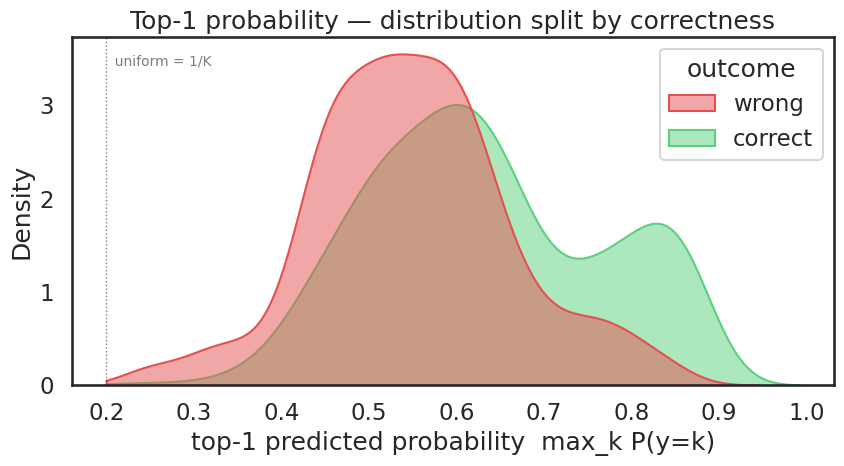
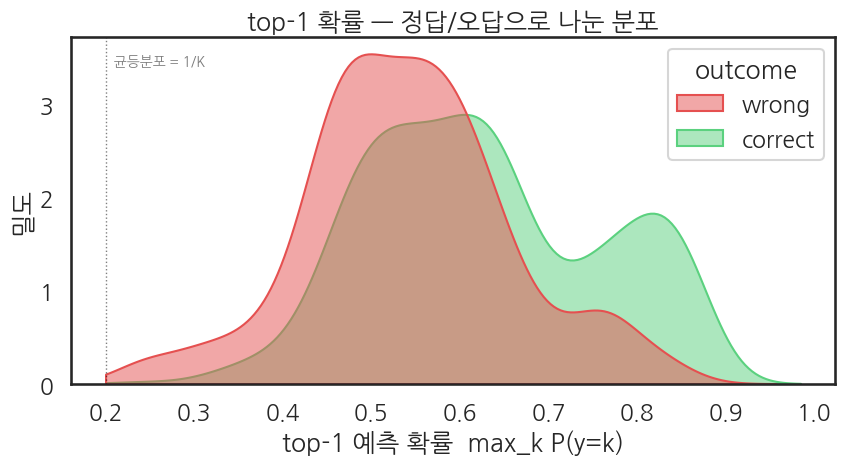
Ch 12 WikiDocs 변환 — executed 한글 plot 재생성
Claude-Session: https://claude.ai/code/session_01WacYaM89hZLnSLh4o6sjrA

diff --git a/pages/12-bert_multiclass-practice.md b/pages/12-bert_multiclass-practice.md
@@ -28,6 +28,13 @@ from sklearn.metrics import (
 from sklearn.feature_extraction.text import TfidfVectorizer
 from sklearn.linear_model import LogisticRegression
 
+# matplotlib 한글 폰트 (Colab — NanumGothic). plot 의 한국어가 □ 로 깨지지 않게.
+import matplotlib.pyplot as plt, matplotlib.font_manager as fm, subprocess, os
+_fp = "/usr/share/fonts/truetype/nanum/NanumGothic.ttf"
+if not os.path.exists(_fp):
+    subprocess.run("apt-get -qq -y install fonts-nanum", shell=True)
+fm.fontManager.addfont(_fp)
+plt.rcParams["font.family"] = "NanumGothic"
 plt.rcParams["axes.unicode_minus"] = False
 
 print(f"PyTorch:        {torch.__version__}")
@@ -53,7 +60,7 @@ GPU:             Tesla T4
 **▶ 실행 결과**
 
 ```text
-Wed Jun 17 21:37:09 2026       
+Mon Jun 22 03:47:31 2026       
 +-----------------------------------------------------------------------------------------+
 | NVIDIA-SMI 580.82.07              Driver Version: 580.82.07      CUDA Version: 13.0     |
 +-----------------------------------------+------------------------+----------------------+
@@ -62,7 +69,7 @@ Wed Jun 17 21:37:09 2026
 |                                         |                        |               MIG M. |
 |=========================================+========================+======================|
 |   0  Tesla T4                       Off |   00000000:00:04.0 Off |                    0 |
-| N/A   52C    P8             11W /   70W |       3MiB /  15360MiB |      0%      Default |
+| N/A   54C    P8             13W /   70W |       3MiB /  15360MiB |      0%      Default |
 |                                         |                        |                  N/A |
 +-----------------------------------------+------------------------+----------------------+
 
@@ -74,8 +81,6 @@ Wed Jun 17 21:37:09 2026
 |  No running processes found                                                             |
 +-----------------------------------------------------------------------------------------+
 ```
-
-DistilBERT 토크나이저를 불러오고 Yelp 리뷰 데이터셋에서 학습 5,000개·평가 1,000개를 무작위로 뽑습니다. 별점 5개(label 0-4)가 고르게 분포해 있는지 클래스별 개수를 출력해 확인하고, 첫 샘플의 라벨과 본문 일부를 미리 봅니다.
 
 ```python
 tokenizer = AutoTokenizer.from_pretrained("distilbert-base-uncased")
@@ -112,10 +117,8 @@ Class distribution (train):
 
 First sample:
   label: 4  (star 5)
-  text:  I stalk this truck.  I've been to industrial parks where I pretend to be a tech worker standing in line, strip mall parking lots, a …(72 more chars omitted)
+  text:  I stalk this truck.  I've been to industrial parks where I pretend to be a tech worker standing in line, strip mall parking lots, a …(뒤 72자 생략)
 ```
-
-리뷰 본문을 토큰화하면서 라벨을 함께 정리합니다. multi-class 분류에서는 라벨이 0-4 정수 스칼라 그대로여야 하므로 `int`로 변환해 `labels` 키에 담고, 토큰화가 끝나면 원본 `text`·`label` 컬럼을 제거해 `Trainer`가 바로 쓸 수 있는 형태로 만듭니다.
 
 ```python
 def tokenize_fn(batch):
@@ -140,8 +143,6 @@ Dataset({
 
 First sample label: 4  (int scalar in 0-4)
 ```
-
-5클래스 분류 헤드를 붙인 DistilBERT를 불러옵니다. `num_labels=5`와 `problem_type="single_label_classification"`로 출력 차원과 loss(CrossEntropyLoss)를 지정하고, `id2label`·`label2id`로 정수 라벨과 별점 표기를 연결합니다. 출력에서 분류기 헤드(`classifier`)가 새로 초기화(MISSING)되었다는 점과 출력 차원이 5인 점을 눈여겨보세요.
 
 ```python
 STAR_LABELS = {0: "1★", 1: "2★", 2: "3★", 3: "4★", 4: "5★"}
@@ -173,15 +174,15 @@ print(f"id2label:             {model.config.id2label}")
 [transformers] DistilBertForSequenceClassification LOAD REPORT from: distilbert-base-uncased
 Key                     | Status     | 
 ------------------------+------------+-
-vocab_projector.bias    | UNEXPECTED | 
-vocab_layer_norm.bias   | UNEXPECTED | 
+vocab_transform.bias    | UNEXPECTED | 
 vocab_transform.weight  | UNEXPECTED | 
 vocab_layer_norm.weight | UNEXPECTED | 
-vocab_transform.bias    | UNEXPECTED | 
-classifier.weight       | MISSING    | 
+vocab_layer_norm.bias   | UNEXPECTED | 
+vocab_projector.bias    | UNEXPECTED | 
 pre_classifier.bias     | MISSING    | 
-classifier.bias         | MISSING    | 
 pre_classifier.weight   | MISSING    | 
+classifier.bias         | MISSING    | 
+classifier.weight       | MISSING    | 
 
 Notes:
 - UNEXPECTED:	can be ignored when loading from different task/architecture; not ok if you expect identical arch.
@@ -200,7 +201,7 @@ id2label:             {0: '1★', 1: '2★', 2: '3★', 3: '4★', 4: '5★'}
 **▶ 실행 결과**
 
 ```text
-Wed Jun 17 21:37:42 2026       
+Mon Jun 22 03:47:57 2026       
 +-----------------------------------------------------------------------------------------+
 | NVIDIA-SMI 580.82.07              Driver Version: 580.82.07      CUDA Version: 13.0     |
 +-----------------------------------------+------------------------+----------------------+
@@ -209,7 +210,7 @@ Wed Jun 17 21:37:42 2026
 |                                         |                        |               MIG M. |
 |=========================================+========================+======================|
 |   0  Tesla T4                       Off |   00000000:00:04.0 Off |                    0 |
-| N/A   51C    P8             10W /   70W |       3MiB /  15360MiB |      0%      Default |
+| N/A   55C    P8             15W /   70W |       3MiB /  15360MiB |      0%      Default |
 |                                         |                        |                  N/A |
 +-----------------------------------------+------------------------+----------------------+
 
@@ -221,8 +222,6 @@ Wed Jun 17 21:37:42 2026
 |  No running processes found                                                             |
 +-----------------------------------------------------------------------------------------+
 ```
-
-평가 때 사용할 지표 계산 함수를 정의합니다. 5차원 logits에 안정 softmax를 적용해 확률을 구한 뒤 argmax로 예측 클래스를 뽑고, 정확도와 macro 평균 precision/recall/F1을 계산합니다. multi-class AUC는 One-vs-Rest 방식으로 구하되 일부 라벨이 빠지면 계산이 불가능하므로 `try`로 감싸 안전하게 처리합니다.
 
 ```python
 def compute_metrics(eval_pred):
@@ -246,8 +245,6 @@ def compute_metrics(eval_pred):
         out["auc_ovr"] = float("nan")
     return out
 ```
-
-학습 설정을 정하고 `Trainer`로 묶어 실제 학습을 시작합니다. T4 30분 제약에 맞춰 2에폭·배치 16·`fp16=True`로 설정했고, 학습이 끝나면 평균 학습 loss를 5클래스 무작위 추측 기준선 $\ln 5 \approx 1.6094$와 나란히 출력해 모델이 실제로 학습됐는지 가늠합니다.
 
 ```python
 training_args = TrainingArguments(
@@ -282,13 +279,9 @@ print(f"random baseline loss (K=5): {np.log(5):.4f}")
 
 ```text
 <IPython.core.display.HTML object>
-Training done — mean train loss: 1.0706
+Training done — mean train loss: 1.0802
 random baseline loss (K=5): 1.6094
 ```
-
-**결과 해석**
-
-평균 학습 loss 1.0706은 5클래스 무작위 추측의 기준선 $\ln 5 \approx 1.6094$보다 확연히 낮아, 모델이 별점 패턴을 실제로 학습했음을 보여 줍니다.
 
 ```python
 !nvidia-smi
@@ -297,7 +290,7 @@ random baseline loss (K=5): 1.6094
 **▶ 실행 결과**
 
 ```text
-Wed Jun 17 21:38:21 2026       
+Mon Jun 22 03:48:37 2026       
 +-----------------------------------------------------------------------------------------+
 | NVIDIA-SMI 580.82.07              Driver Version: 580.82.07      CUDA Version: 13.0     |
 +-----------------------------------------+------------------------+----------------------+
@@ -306,7 +299,7 @@ Wed Jun 17 21:38:21 2026
 |                                         |                        |               MIG M. |
 |=========================================+========================+======================|
 |   0  Tesla T4                       Off |   00000000:00:04.0 Off |                    0 |
-| N/A   68C    P0             37W /   70W |    1577MiB /  15360MiB |     73%      Default |
+| N/A   75C    P0             64W /   70W |    1577MiB /  15360MiB |     73%      Default |
 |                                         |                        |                  N/A |
 +-----------------------------------------+------------------------+----------------------+
 
@@ -315,11 +308,9 @@ Wed Jun 17 21:38:21 2026
 |  GPU   GI   CI              PID   Type   Process name                        GPU Memory |
 |        ID   ID                                                               Usage      |
 |=========================================================================================|
-|    0   N/A  N/A             921      C   /usr/bin/python3                       1574MiB |
+|    0   N/A  N/A            2000      C   /usr/bin/python3                       1574MiB |
 +-----------------------------------------------------------------------------------------+
 ```
-
-학습된 모델을 평가 셋에서 측정합니다. 앞서 정의한 `compute_metrics`가 자동으로 호출되어 정확도·macro F1·OvR AUC 등이 계산되며, `eval_`로 시작하는 실수 지표만 골라 보기 좋게 출력합니다.
 
 ```python
 # 평가 metric
@@ -336,19 +327,13 @@ for k, v in eval_metrics.items():
 <IPython.core.display.HTML object>
 <IPython.core.display.HTML object>
 BERT 5-class evaluation:
-               eval_loss: 1.0001
-           eval_accuracy: 0.5620
-    eval_macro_precision: 0.5583
-       eval_macro_recall: 0.5645
-           eval_macro_f1: 0.5607
-            eval_auc_ovr: 0.8652
+               eval_loss: 1.0000
+           eval_accuracy: 0.5580
+    eval_macro_precision: 0.5555
+       eval_macro_recall: 0.5595
+           eval_macro_f1: 0.5561
+            eval_auc_ovr: 0.8657
 ```
-
-**결과 해석**
-
-정확도 0.5620은 5클래스 무작위 기준선 0.2(=1/5)의 2.8배 수준이며, OvR AUC 0.8652는 정답 클래스에 더 높은 확률을 부여하는 순위 매김 능력이 정확도보다 한층 우수함을 보여 줍니다.
-
-평가 셋 전체에 대해 예측을 뽑아 모델의 확신도를 들여다봅니다. logits를 softmax로 확률화한 뒤 argmax로 예측 클래스를, max로 top-1 확률을 구하고, 맞힌 예측과 틀린 예측의 평균 top-1 확률을 비교합니다. 확신도가 정답 여부와 어떻게 연동되는지 첫 5개 샘플 표에서 확인해 보세요.
 
 ```python
 # logits → softmax → argmax
@@ -381,26 +366,20 @@ print(pd.DataFrame({
 ```text
 <IPython.core.display.HTML object>
 logits shape: (1000, 5)
-top-1 prob range: [0.2334, 0.8789]
-top-1 prob mean: correct=0.6330, wrong=0.5493
+top-1 prob range: [0.2245, 0.8730]
+top-1 prob mean: correct=0.6279, wrong=0.5414
 
 First 5 samples:
  label (star-1)  pred (star-1)  top-1 prob  correct?
-              2              4      0.5291     False
-              4              3      0.4671     False
-              1              0      0.7869     False
-              4              4      0.5081      True
-              3              3      0.6116      True
+              2              4      0.4724     False
+              4              3      0.4351     False
+              1              0      0.7647     False
+              4              4      0.4687      True
+              3              3      0.5864      True
 ```
 
-**결과 해석**
-
-맞힌 예측의 top-1 확률 평균(0.6330)이 틀린 예측(0.5493)보다 높아, 모델의 확신도가 정답 여부와 어느 정도 비례합니다. 다만 틀린 사례도 평균 0.55로 꽤 확신하고 있어 중간 별점에서는 오답에도 자신감이 남아 있음을 알 수 있습니다.
-
-5x5 혼동행렬을 그려 어떤 별점이 어떤 별점으로 헷갈리는지 봅니다. 각 행을 정답 라벨별로 정규화해 색은 재현율(비율)을, 칸 안 숫자는 실제 개수를 표시합니다. 오분류가 대각선 인접 칸에 몰리는지 살펴 별점의 순서형 성질을 확인합니다.
-
 ```python
-sns.set_theme(style="white", context="talk")
+sns.set_theme(style="white", context="talk", font="NanumGothic", rc={"axes.unicode_minus": False})
 
 cm = confusion_matrix(labels, preds, labels=list(range(5)))
 # 정답 라벨별 정규화 — 각 행 합이 1이 되어 *재현율* 을 직접 읽을 수 있음
@@ -412,11 +391,11 @@ sns.heatmap(
     cmap="Blues", vmin=0, vmax=1,
     xticklabels=[STAR_LABELS[k] for k in range(5)],
     yticklabels=[STAR_LABELS[k] for k in range(5)],
-    cbar_kws={"label": "row-normalized (recall)"}, ax=ax,
+    cbar_kws={"label": "행 정규화 (재현율)"}, ax=ax,
 )
-ax.set_xlabel("Predicted star")
-ax.set_ylabel("Actual star")
-ax.set_title("Confusion Matrix — 5-class Yelp")
+ax.set_xlabel("예측 별점")
+ax.set_ylabel("실제 별점")
+ax.set_title("혼동 행렬 — 5-class Yelp")
 plt.tight_layout()
 plt.show()
 ```
@@ -424,12 +403,6 @@ plt.show()
 **▶ 실행 결과**
 
 ![output](../assets/12-bert_multiclass-out1.png)
-
-**결과 해석**
-
-혼동행렬의 오분류가 대각선 바로 옆 칸(인접 별점)에 몰려 있어, 별점이 순서형(ordinal) 척도라는 성질이 그대로 드러납니다. 양 끝(1★·5★)은 재현율이 높지만 가운데 별점일수록 인접 클래스와 헷갈리는 경향이 보입니다.
-
-top-1 확률 분포를 맞힌 예측과 틀린 예측으로 나눠 밀도 곡선으로 겹쳐 그립니다. 균등 확률선 1/K를 점선으로 표시해 기준을 잡고, 두 곡선이 얼마나 분리되는지로 top-1 확률을 신뢰도 지표로 쓸 수 있는지 가늠합니다.
 
 ```python
 df_top = pd.DataFrame({
@@ -445,10 +418,10 @@ sns.kdeplot(
     clip=(1/5, 1.0), ax=ax,
 )
 ax.axvline(1/5, color="black", lw=1.0, ls=":", alpha=0.5)
-ax.text(1/5, ax.get_ylim()[1]*0.95, "  uniform = 1/K", va="top", fontsize=10, alpha=0.6)
-ax.set_title("Top-1 probability — distribution split by correctness")
-ax.set_xlabel("top-1 predicted probability  max_k P(y=k)")
-ax.set_ylabel("Density")
+ax.text(1/5, ax.get_ylim()[1]*0.95, "  균등분포 = 1/K", va="top", fontsize=10, alpha=0.6)
+ax.set_title("top-1 확률 — 정답/오답으로 나눈 분포")
+ax.set_xlabel("top-1 예측 확률  max_k P(y=k)")
+ax.set_ylabel("밀도")
 plt.tight_layout()
 plt.show()
 ```
@@ -456,12 +429,6 @@ plt.show()
 **▶ 실행 결과**
 
 ![output](../assets/12-bert_multiclass-out2.png)
-
-**결과 해석**
-
-맞힌 예측(초록)의 분포가 틀린 예측(빨강)보다 오른쪽(높은 확률)으로 치우쳐 있어, top-1 확률을 신뢰도 지표로 어느 정도 활용할 수 있음을 시각적으로 확인할 수 있습니다. 두 분포가 균등 확률선 1/K 부근에서 상당히 겹쳐 5클래스 분류의 본질적인 모호함도 함께 드러납니다.
-
-별점별 precision·recall·F1을 한 표로 출력합니다. macro 평균 하나로 뭉뚱그리지 않고 클래스 단위로 펼쳐 보면, 어느 별점이 잘 분류되고 어느 별점이 어려운지 구체적으로 드러납니다.
 
 ```python
 # 클래스별 분류 리포트 (precision/recall/F1 클래스 단위)
@@ -477,22 +444,16 @@ print(classification_report(
 ```text
               precision    recall  f1-score   support
 
-          1★     0.6667    0.7273    0.6957       220
-          2★     0.4948    0.4460    0.4691       213
-          3★     0.5103    0.5051    0.5077       196
-          4★     0.4847    0.4634    0.4738       205
-          5★     0.6348    0.6807    0.6570       166
+          1★     0.6520    0.7409    0.6936       220
+          2★     0.5056    0.4225    0.4604       213
+          3★     0.5134    0.4898    0.5013       196
+          4★     0.4651    0.4878    0.4762       205
+          5★     0.6412    0.6566    0.6488       166
 
-    accuracy                         0.5620      1000
-   macro avg     0.5583    0.5645    0.5607      1000
-weighted avg     0.5568    0.5620    0.5587      1000
+    accuracy                         0.5580      1000
+   macro avg     0.5555    0.5595    0.5561      1000
+weighted avg     0.5535    0.5580    0.5542      1000
 ```
-
-**결과 해석**
-
-양 끝 별점(1★ F1 0.6957, 5★ F1 0.6570)이 가운데 별점(2★-4★ F1 0.47-0.51)보다 뚜렷이 잘 분류됩니다. 가운데 별점은 인접 별점과 어휘·감정 표현이 겹쳐 구분이 어렵다는 점이 클래스별 점수에 그대로 나타납니다.
-
-비교 기준선으로 Ch 5의 sklearn 셋업을 같은 데이터에 재현합니다. TF-IDF로 텍스트를 벡터화하고 multinomial 로지스틱 회귀를 학습한 뒤, BERT와 똑같은 지표(정확도·macro F1·OvR AUC)를 계산합니다. 파라미터 수가 약 100K로 BERT(67M)보다 훨씬 작다는 점을 함께 봅니다.
 
 ```python
 # Ch 5 셋업 재현 — TF-IDF + multinomial LogReg
@@ -534,12 +495,6 @@ sklearn TF-IDF + LogReg:
   AUC (OvR):          0.8420
 ```
 
-**결과 해석**
-
-TF-IDF + LogReg 기준선만으로도 정확도 0.5420, AUC 0.8420으로 무작위 추측을 크게 웃돕니다. 같은 5,000 샘플에서 단순 선형 모델이 이미 견고한 출발점을 제공한다는 점이 BERT 성능을 평가하는 비교 기준이 됩니다.
-
-BERT와 sklearn의 지표를 한 표로 나란히 정리하고 차이 열(BERT - sklearn)을 더합니다. 같은 지표끼리 직접 비교해 670배 많은 파라미터를 쓴 BERT가 5,000 샘플 규모에서 실제로 얼마나 앞서는지 수치로 확인합니다.
-
 ```python
 metrics_bert = {
     k.replace("eval_", ""): v for k, v in eval_metrics.items()
@@ -567,18 +522,12 @@ print(cmp.round(4).to_string(index=False))
 
 ```text
          metric  sklearn (TF-IDF)   BERT  BERT - sklearn
-       accuracy            0.5420 0.5620          0.0200
-macro_precision            0.5377 0.5583          0.0205
-   macro_recall            0.5410 0.5645          0.0235
-       macro_f1            0.5380 0.5607          0.0227
-        auc_ovr            0.8420 0.8652          0.0232
+       accuracy            0.5420 0.5580          0.0160
+macro_precision            0.5377 0.5555          0.0177
+   macro_recall            0.5410 0.5595          0.0185
+       macro_f1            0.5380 0.5561          0.0181
+        auc_ovr            0.8420 0.8657          0.0236
 ```
-
-**결과 해석**
-
-BERT가 모든 지표에서 sklearn을 앞서지만 그 차이는 정확도 +0.02, AUC +0.023 정도로 크지 않습니다. 670배 많은 파라미터(67M 대 100K)를 쓰고도 5,000 샘플 규모에서는 격차가 작아, 데이터가 적을 때 사전학습 모델의 이점이 제한적일 수 있음을 시사합니다.
-
-두 모델의 혼동행렬을 좌우로 나란히 그려 오분류 패턴을 직접 비교합니다. 같은 행 정규화·같은 색 척도로 맞춰, 두 모델 모두 대각선 인접 칸에 오분류가 몰리는지와 BERT 대각선이 더 진한지를 한눈에 살펴봅니다.
 
 ```python
 cm_bert = confusion_matrix(labels, preds, labels=list(range(5)))
@@ -599,8 +548,8 @@ for ax, cm_n, cm_raw, title in [
         cbar=False, ax=ax,
     )
     ax.set_title(title)
-    ax.set_xlabel("Predicted star")
-    ax.set_ylabel("Actual star")
+    ax.set_xlabel("예측 별점")
+    ax.set_ylabel("실제 별점")
 plt.tight_layout()
 plt.show()
 ```
@@ -608,7 +557,3 @@ plt.show()
 **▶ 실행 결과**
 
 ![output](../assets/12-bert_multiclass-out3.png)
-
-**결과 해석**
-
-두 모델 모두 오분류가 대각선 인접 칸에 몰리는 동일한 순서형 패턴을 보여, 가운데 별점에서 헷갈리는 현상은 모델 종류가 아니라 태스크 자체의 성질임을 알 수 있습니다. BERT 쪽 대각선이 약간 더 진해 전반적으로 조금 더 정확함을 시각적으로 확인할 수 있습니다.

diff --git a/TOC.md b/TOC.md
@@ -49,7 +49,7 @@
   * [11-1. 실습](pages/11-bert_binary_softmax-practice.md)
   * [11-2. 정리와 FAQ](pages/11-bert_binary_softmax-wrapup.md)
 * [12. BERT 다중 클래스 분류 (Multi-class & CE)](pages/12-bert_multiclass.md)
-  * [12-1. 실습: DistilBERT 5클래스 분류](pages/12-bert_multiclass-practice.md)
+  * [12-1. 실습](pages/12-bert_multiclass-practice.md)
   * [12-2. 정리와 FAQ](pages/12-bert_multiclass-wrapup.md)
 * [13. BERT 다중 라벨 분류 (Multi-label & Per-label BCE)](pages/13-bert_multilabel.md)
   * [13-1. 실습: per-label BCE 다중 라벨 분류](pages/13-bert_multilabel-practice.md)
